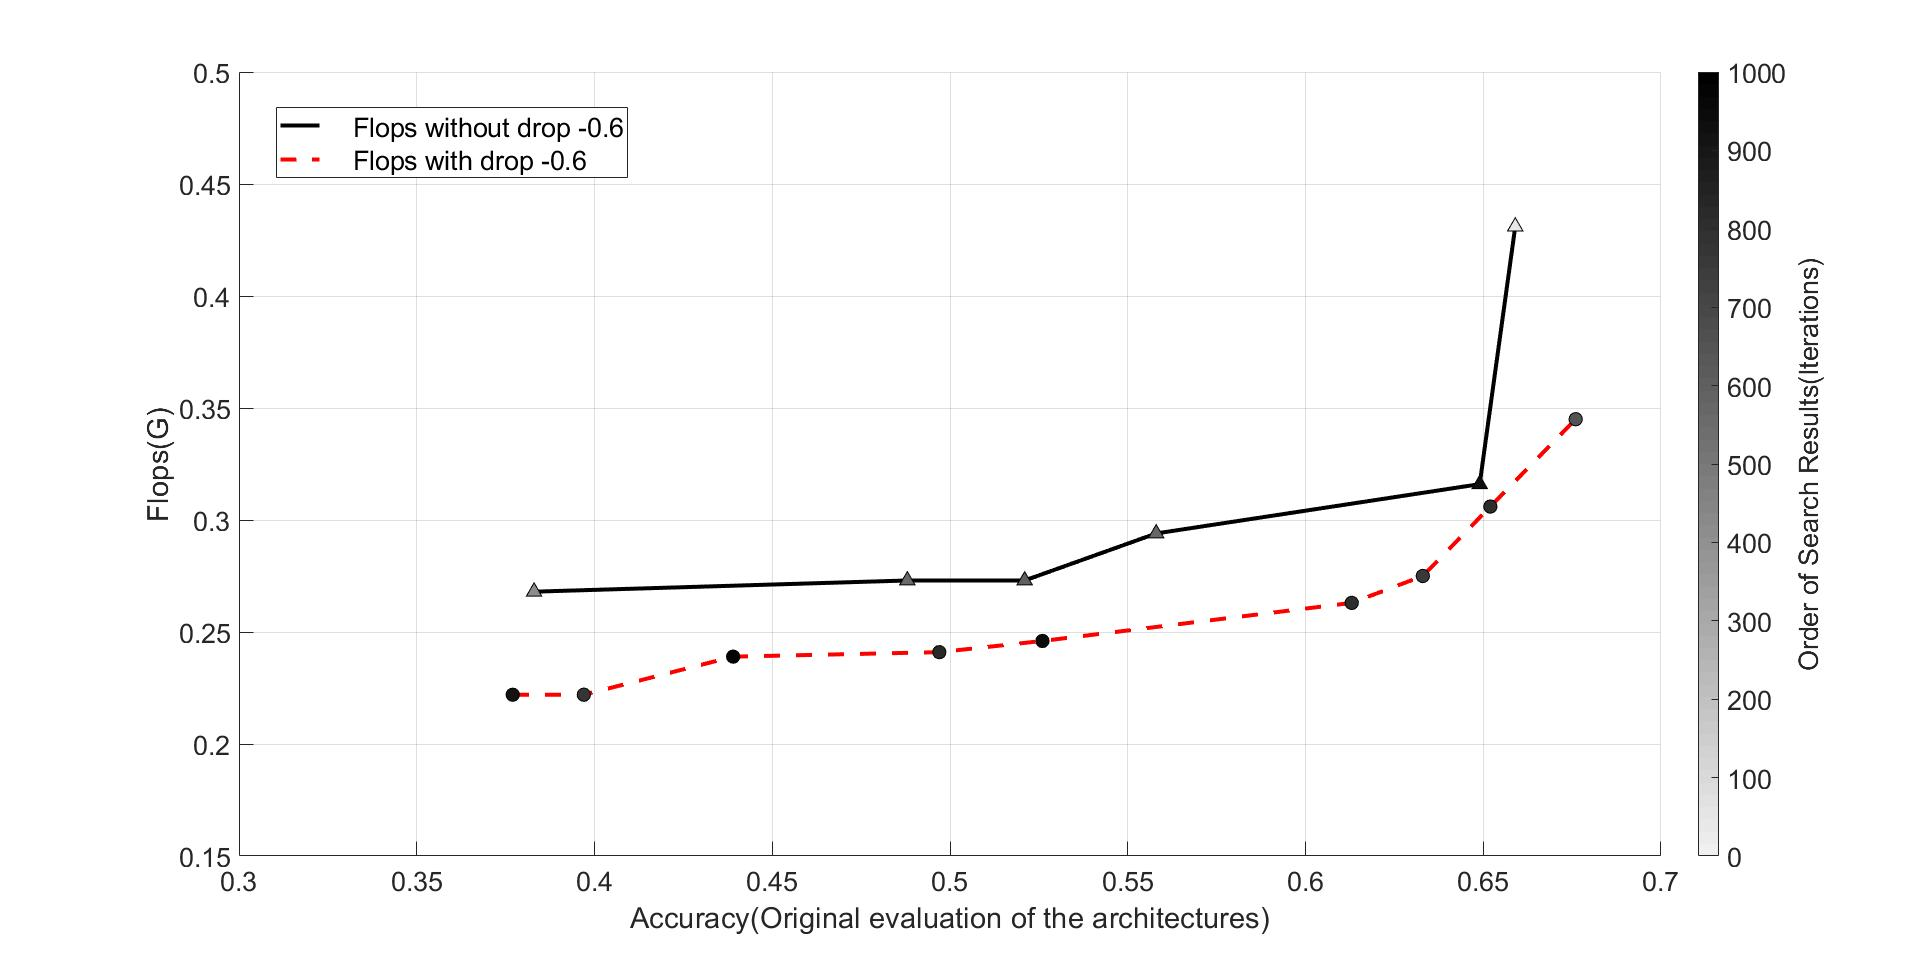
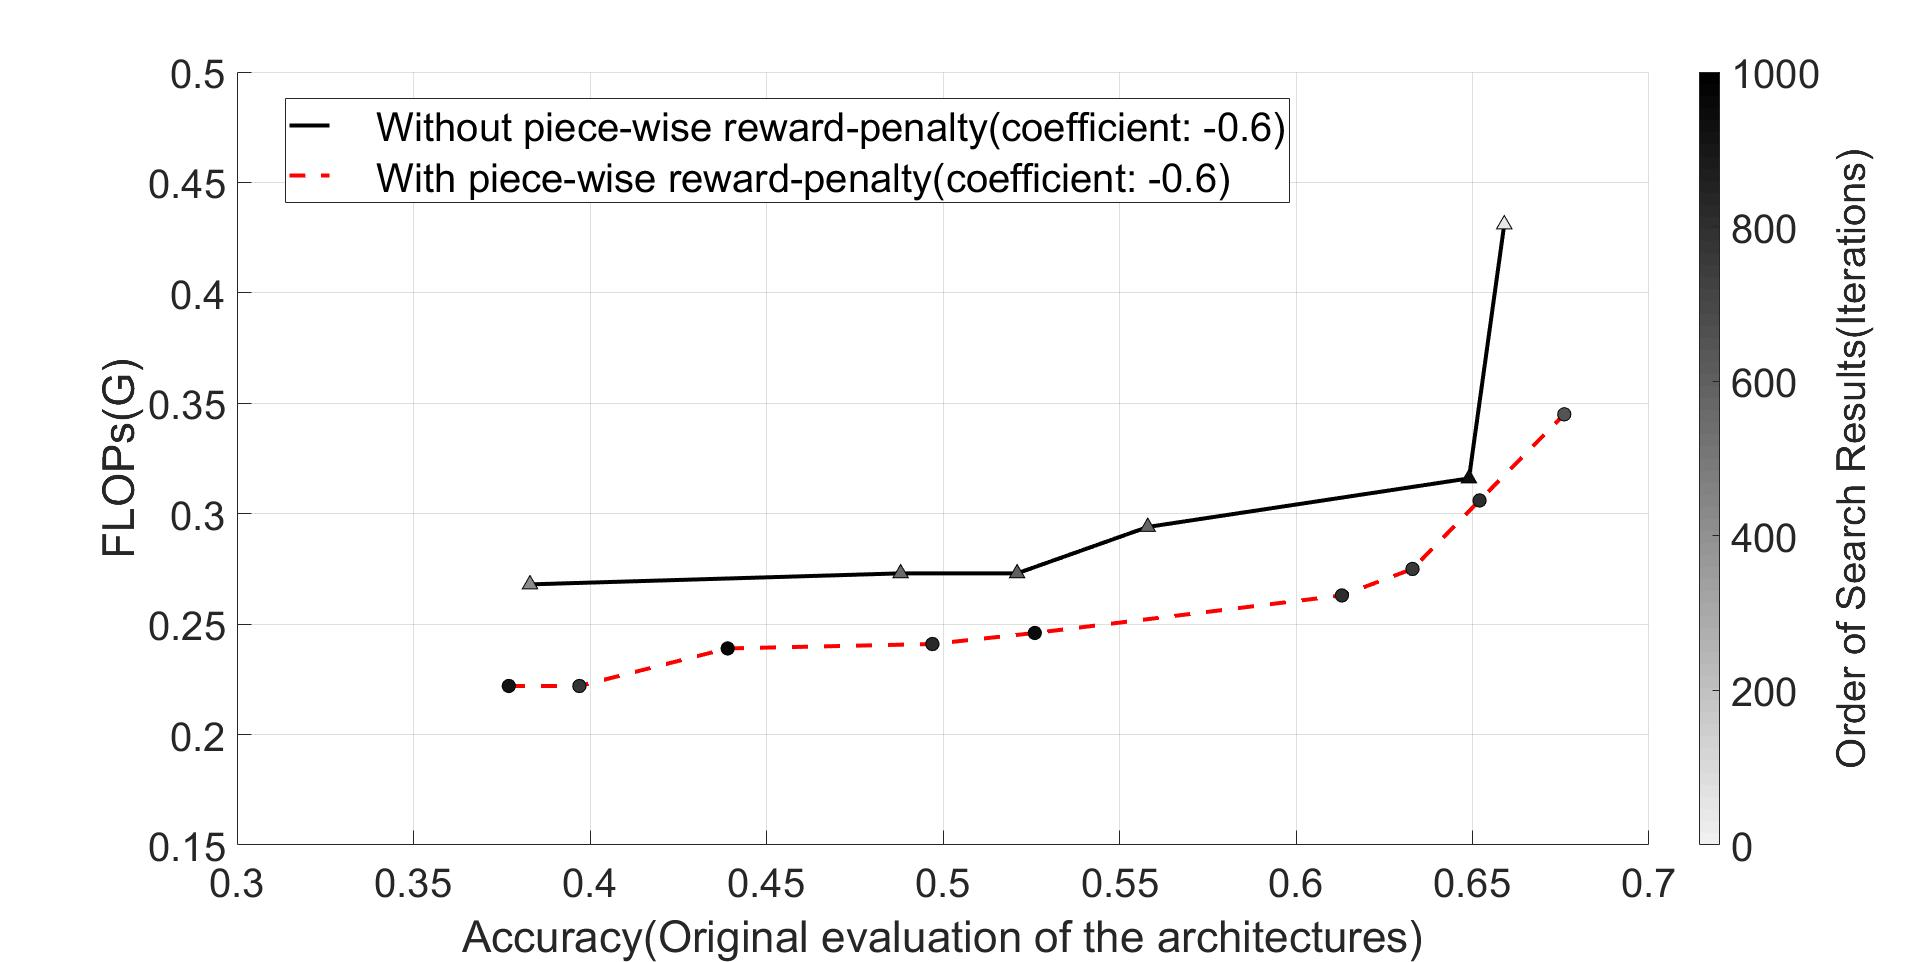
update the new m file

diff --git a/peicewise_curve.m b/peicewise_curve.m
@@ -14,17 +14,17 @@ z=y.*power(x./P,-0.6);
 % z=x.^2+2*y.^2;
 subplot(1,2,1)
 surf(x,y,z)
-xlabel('Parameters(M)','FontSize',20,'Rotation',25);ylabel('Original reward','FontSize',20,'Rotation',-40);zlabel('Reward','FontSize',20);
+xlabel('FLOPs(G)','FontSize',30,'Rotation',25);ylabel('Original reward','FontSize',30,'Rotation',-40);zlabel('Reward','FontSize',30);
 
 x=linspace(0,1,30); %para
 y = linspace(0,0.8,30); % r
 [xx,yy] = meshgrid(x,y);
 z1 = yy.*power(xx./P,0);
 z2 = yy.*power(xx./P,-0.6);
-mask1 = (xx < 0.2) &(yy<0.3);
-mask2 = (xx >= 0.2) | (yy>=0.3);
+mask1 = (xx < 0.6) &(yy<0.25);
+mask2 = (xx >= 0.6) | (yy>=0.25);
 z1(~mask1)=NaN;
 z2(~mask2)=NaN;
 subplot(1,2,2)
 surf(xx,yy,z1);hold on;surf(xx,yy,z2);
-xlabel('Parameters(M)','FontSize',20,'Rotation',25);ylabel('Original reward','FontSize',20,'Rotation',-40);zlabel('Reward','FontSize',20);
+xlabel('FLOPs(G)','FontSize',30,'Rotation',25);ylabel('Original reward','FontSize',30,'Rotation',-40);zlabel('Reward','FontSize',30);
